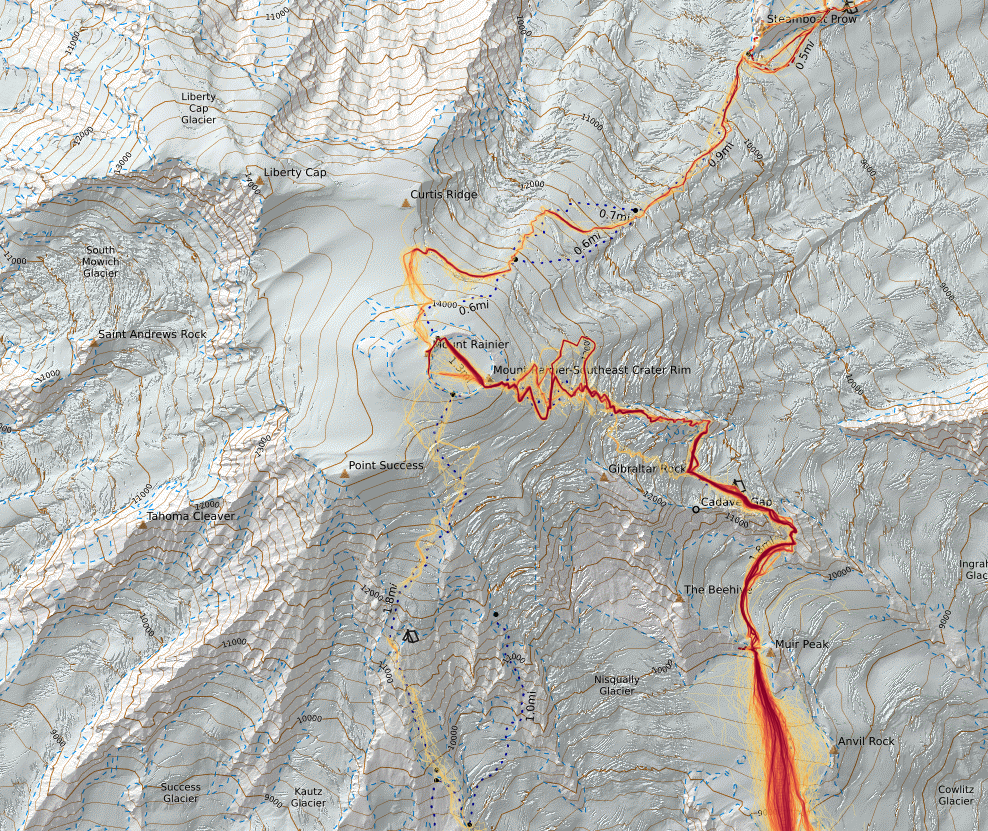
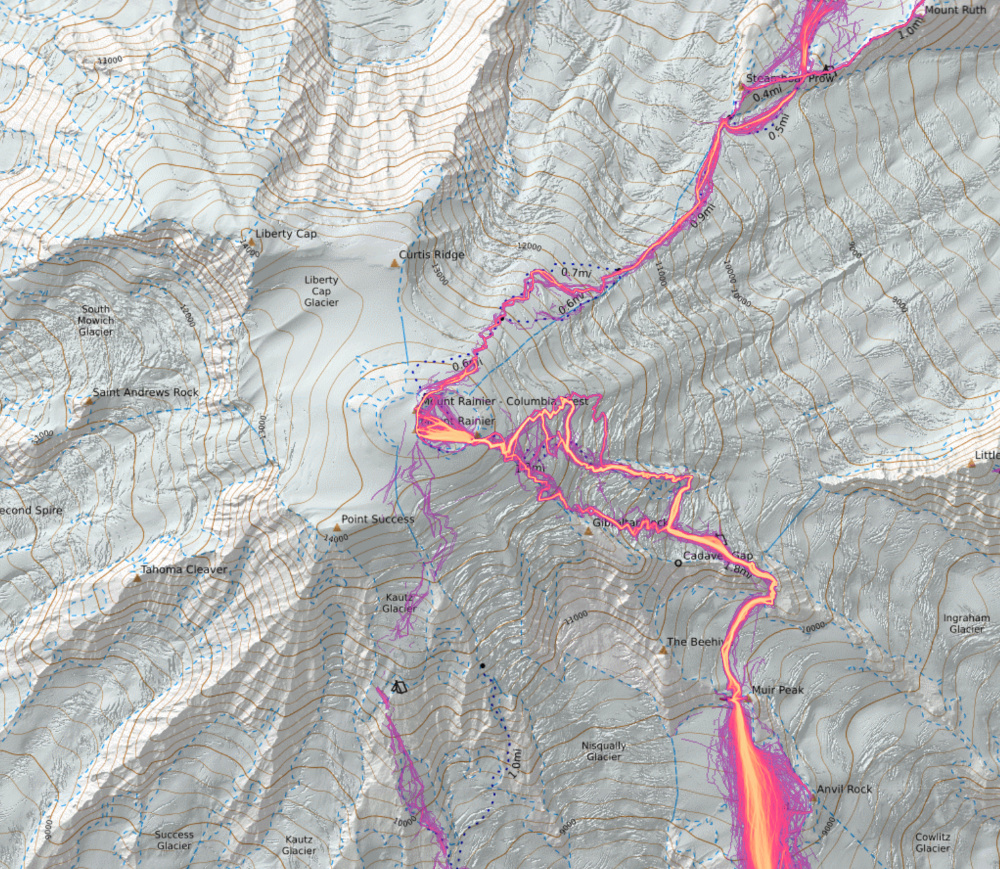
Add preamble for each method, update image

diff --git a/index.htm b/index.htm
@@ -28,6 +28,10 @@
       on the other hand allow you to layer many different maps from many different sources.
       From this guide, you can learn various methods for showing the Strava heatmap in CalTopo.
     </p>
+    <a href="img/tahoma.png" target="_blank"><img src="img/tahoma.png" /></a>
+    <p class="caption">
+      The strava heatmap for on-foot activities overlaid on top of CalTopo's MapBuilder map.
+    </p>
     <p>
       Prior to <a href="https://github.com/zekefarwell/josm-strava-heatmap/issues/19">March 2025</a>,
       sending authentication tokens to strava in query parameters was supported by their API,
@@ -80,18 +84,27 @@
       </tbody>
     </table>
     <h2 id="extension">Browser Extension</h2>
+    <p>
+      This is the simplest method, as well as the only one that supports drawing lines based on the Strava heat
+      and the only one that does not require a CalTopo Pro account.
+      Its main drawback is that it does not support including the Strava heatmap layer in a PDF exported/printed from CalTopo.
+      A Strava account is required.
+    </p>
     <h2 id="unauthenticated">Unauthenticated Layer</h2>
+    <p>
+      This is the simplest method that supports exporting/printing the Strava heatmap layers in a PDF,
+      as well as the only method that does not require a Strava account.
+      Its principle downside is that it only support low-resolution tiles down to zoom level 11.
+      It does not support drawing lines based on the Strava heat.
+      A CalTopo pro account is required to define custom layers.
+    </p>
     <h2 id="proxy">Proxy Server</h2>
     <p>
-      <em>
-        Note: adding custom layer sources is now a Pro feature of CalTopo,
-        so you will need a paid account.
-        You will also get better maps with a paid Strava account, but you can get some heatmaps without one.
-      </em>
-    </p>
-    <a href="img/tahoma.png" target="_blank"><img src="img/tahoma.png" /></a>
-    <p class="caption">
-      The strava heatmap for on-foot activities overlaid on top of CalTopo's MapBuilder map.
+      This is the most complicated method.
+      It can give you high-resolution tiles that can be included in a printed PDF.
+      The main downside is that it requires a significant amount of software engineering,
+      a CalTopo Pro account, and a Strava account.
+      It does not support drawing lines based on the Strava heat.
     </p>
     <h2>Building the URL Template</h2>
     <p>
